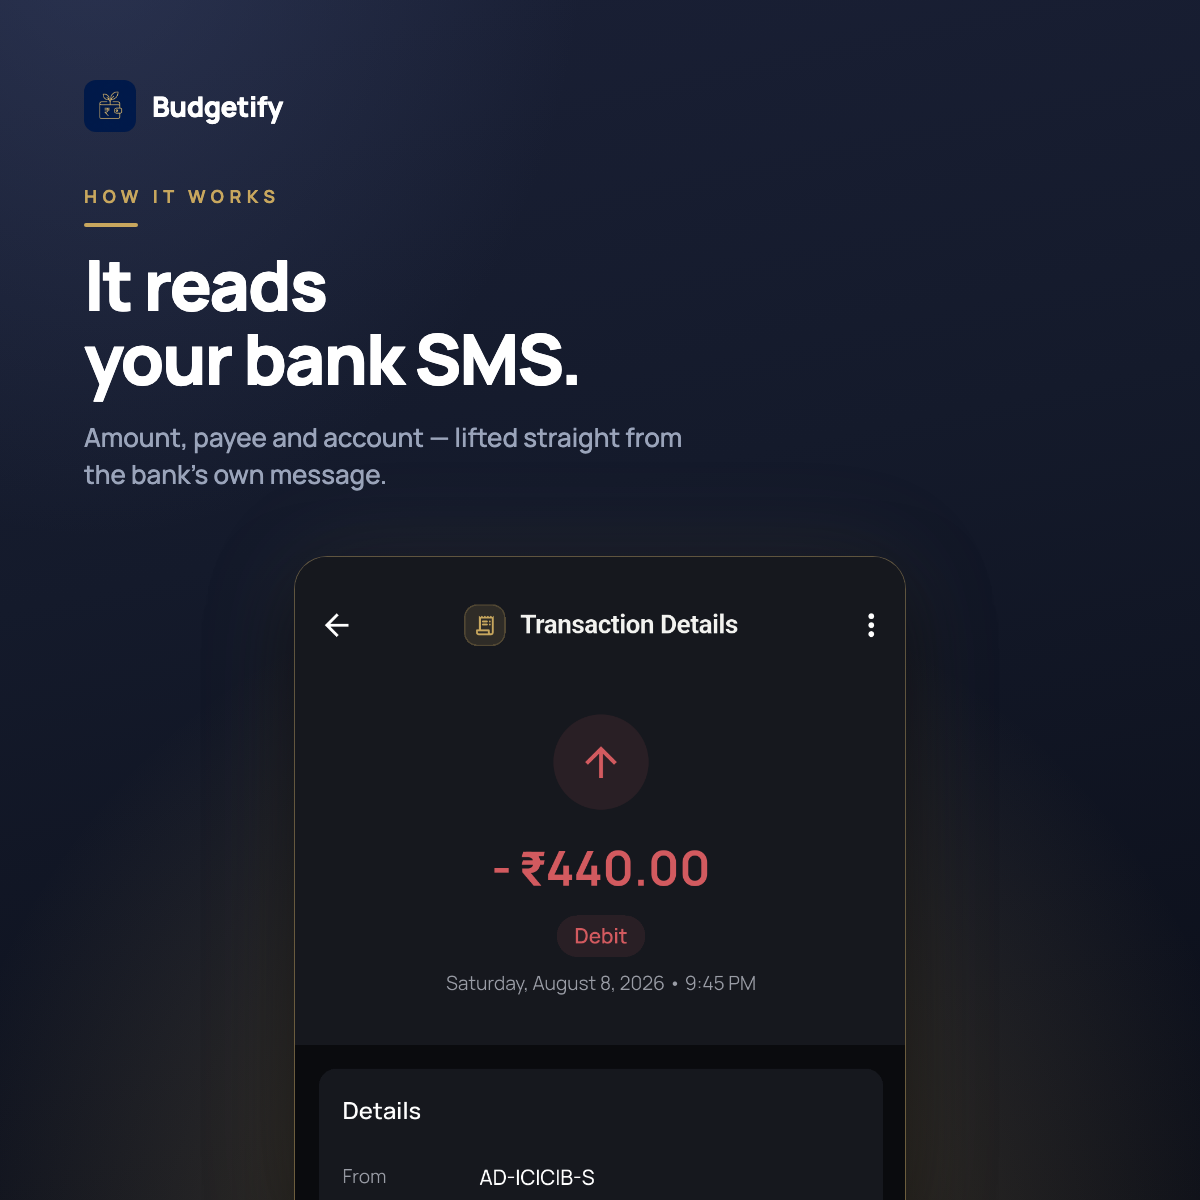
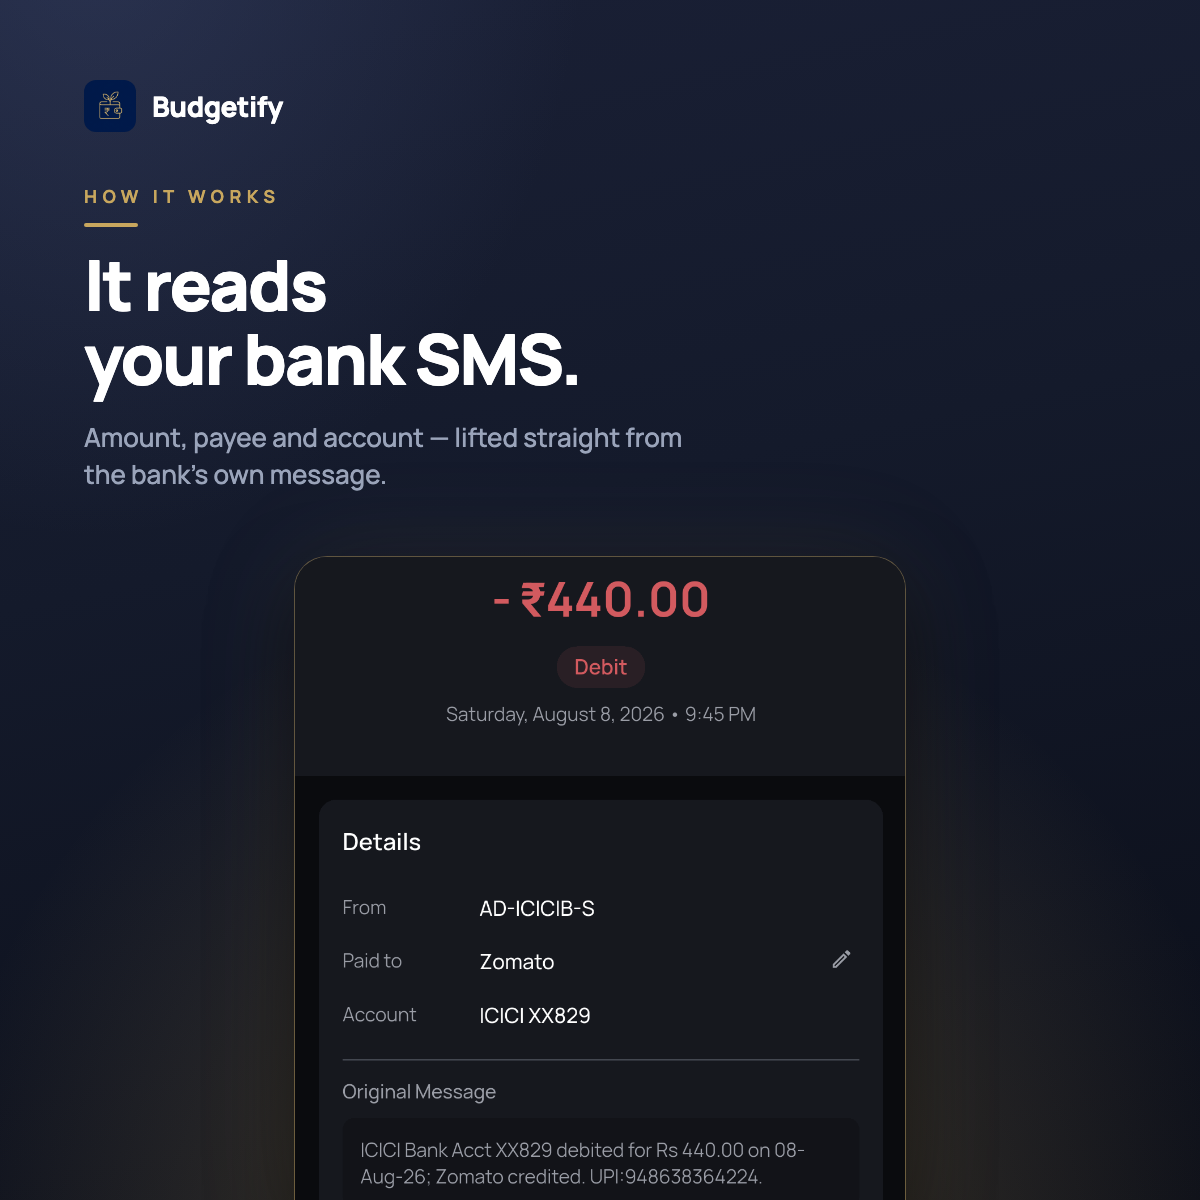
Show the bank SMS in the ad that promises it, and write the Hindi ad group
Three things, all in `marketing/ads content`.

The `02-reads-sms` concept claimed "It reads your bank SMS" over a crop that
stopped just below the amount, so the `Original Message` panel — the raw ICICI
text the parse came from — sat outside the frame in all three ratios. It
borrowed offset 96 from the Play screenshot next door, where the device panel
is tall enough to reach it; the ad's panel is not. At 570 the amount, the payee
it resolved, the account and the message it resolved them from all land in one
shot, in landscape, square and portrait. The square is the binding constraint:
it shows 1136 source pixels, so below ~560 the message's second line falls off
the bottom and above ~600 the amount is cut by the top of the panel.

The campaign targets India in English and Hindi and had English assets only.
`copy.md` now carries a Hindi ad group — five headlines, five descriptions and
alternates — translated from the already-verified English claims and worded to
match the Hindi custom store listing, so the ad and the page agree. A Hinglish
set is there to test later. They are separate ad groups on purpose: an App
campaign mixes assets inside a group, and a shared group would serve a
Devanagari headline over an English description.

The README gains a review section: what changed, and the six things still open
before money moves — starting with the store page, which was last measured at
v1.44.3 with 0 ratings while this repo sits on 1.83.0. It also states plainly
[…]

diff --git a/marketing/ads content/copy.md b/marketing/ads content/copy.md
@@ -4,6 +4,9 @@
 > One block below per field. Limits: headline **30**, description **90**.
 > `python3 validate.py` fails the set if anything runs over.
 
+This file holds **two ad groups' worth of copy**: English first, then Hindi.
+Keep them in separate ad groups — the reason is in the Hindi section below.
+
 An App campaign mixes these itself: any headline can appear beside any
 description, and often beside neither. So every line stands on its own — nothing
 continues a sentence started elsewhere, and nothing refers to "above" or "below".
@@ -85,13 +88,163 @@ Six languages. Works in airplane mode. Nothing to sign up for, ever.
 
 ---
 
+# हिन्दी — the second ad group
+
+The campaign targets India in **English and Hindi**, and until now every asset
+in this folder was English. A Hindi-language user served an English headline is
+a click you paid for and a page they bounce off.
+
+**These do not go in the same ad group as the English lines.** An App campaign
+mixes assets freely inside one ad group, so a shared group would serve a
+Devanagari headline over an English description. Two ad groups, one script each,
+and the asset report then tells you which language pulls.
+
+The lines below are the English five, translated — not new claims. Every one is
+already verified in the table at the bottom of this file, and every one matches
+the wording of the Hindi custom store listing in
+`../playstore/listing/localized.md`, so the ad and the page it lands on say the
+same thing in the same words.
+
+> **Character counts are the conservative reading.** Google counts Devanagari as
+> single-width, but a matra is its own code point, so `बैंक` is four characters,
+> not two. `validate.py` counts the same way. Nothing here is over 29, which
+> leaves room if Google's own counter disagrees by one.
+
+## Hindi headlines — paste one per field
+
+### Hindi headline 1 &nbsp;`25/30`
+
+```
+खर्च ट्रैकर, बिना इंटरनेट
+```
+
+### Hindi headline 2 &nbsp;`24/30`
+
+```
+बैंक SMS खुद पढ़ लेता है
+```
+
+### Hindi headline 3 &nbsp;`24/30`
+
+```
+आपका पैसा, आपके फ़ोन में
+```
+
+### Hindi headline 4 &nbsp;`24/30`
+
+```
+बजट ट्रैकर, बिना टाइपिंग
+```
+
+### Hindi headline 5 &nbsp;`27/30`
+
+```
+एयरप्लेन मोड में भी चलता है
+```
+
+`SMS`, `UPI` and `EMI` stay in Latin script on purpose — that is how they are
+written on every bank message an Indian phone receives, and transliterating them
+would make the ad less recognisable, not more local.
+
+## Hindi descriptions — paste one per field
+
+### Hindi description 1 &nbsp;`79/90`
+
+```
+आपके बैंक और UPI SMS पढ़कर हर लेन-देन अपने आप दर्ज करता है। कुछ टाइप नहीं करना।
+```
+
+### Hindi description 2 &nbsp;`83/90`
+
+```
+रिलीज़ बिल्ड में इंटरनेट परमिशन ही नहीं है। आपका डेटा फ़ोन से बाहर जा ही नहीं सकता।
+```
+
+### Hindi description 3 &nbsp;`77/90`
+
+```
+बजट, कैटेगरी, नेट वर्थ और रिकरिंग बिल — सब आपके फ़ोन पर, सब पूरी तरह ऑफ़लाइन।
+```
+
+### Hindi description 4 &nbsp;`78/90`
+
+```
+न अकाउंट, न क्लाउड, न विज्ञापन, न ट्रैकर। बस यह कि आपका पैसा असल में कहाँ गया।
+```
+
+### Hindi description 5 &nbsp;`72/90`
+
+```
+छह भाषाएँ। एयरप्लेन मोड में भी चलता है। साइन-अप करने की ज़रूरत कभी नहीं।
+```
+
+## Hindi alternate headlines
+
+```
+इंटरनेट परमिशन नहीं
+ऑफ़लाइन खर्च ट्रैकर
+हर रुपया अपने आप दर्ज
+UPI खर्च अपने आप ट्रैक
+बिना टाइप किए खर्च ट्रैक
+न अकाउंट, न क्लाउड, न ऐड
+बैंक SMS से खर्च ट्रैक करें
+आपका डेटा फ़ोन में ही रहता है
+```
+
+## Hindi alternate descriptions
+
+```
+कैटेगरी बजट तय करें और रोज़ की रफ़्तार देखें। न स्प्रेडशीट, न मैनुअल एंट्री।
+सब्सक्रिप्शन और EMI बिल आने से पहले पकड़ें। सब कुछ आपके फ़ोन पर ही रहता है।
+Excel, CSV या PDF में कभी भी एक्सपोर्ट करें। एक टैप में कुछ भी हटाएँ। सब आपका है।
+```
+
+---
+
+# Hinglish — the third ad group, if you want it
+
+Plenty of the audience sets its phone to English, thinks in Hindi, and types in
+Roman script. Those users are targeted by the **English** ad group and served
+English lines. Roman-script Hindi is a third bet, and it is a real one in India —
+but it is a bet, so treat it as a test with its own ad group rather than as
+copy you mix into either of the other two.
+
+Do not run this until English and Hindi have both had a fair run. Three ad
+groups split the same budget three ways, and an App campaign already needs
+volume to learn.
+
+### Hinglish headlines
+
+```
+Bank SMS se kharch track
+Bina type kiye kharch track
+Poori tarah offline tracker
+Har rupee apne aap track
+Na account, na cloud, na ads
+```
+
+### Hinglish descriptions
+
+```
+Aapke bank aur UPI SMS padhkar har transaction khud record karta hai.
+Release build mein internet permission hi nahi hai. Data phone se bahar nahi jata.
+Budget, category, net worth aur recurring bills — sab phone par, sab offline.
+```
+
+---
+
 ## Also uploaded with these
 
 | Asset | Where |
 |-------|-------|
-| 12 images (3 ratios × 4 concepts) | `images/` |
+| 20 images (8 concepts, up to 3 ratios each) | `images/` |
 | 4 videos (15s + 30s, 9:16 + 1:1) | `video/` — upload to YouTube as **unlisted** first |
 | Feature graphic | `../playstore/feature-graphic.png` — Play pulls this into ads automatically |
+
+The images carry English overlay text, so today they belong to the English ad
+group. The Hindi group can run on them anyway — Google draws its own headline
+over the creative and `05-product` has no words on it at all — but a Hindi set
+is the obvious next asset to build.
 
 ---
 

diff --git a/marketing/ads content/README.md b/marketing/ads content/README.md
@@ -1,15 +1,15 @@
 # Budgetify — marketing campaign
 
-Assets and plan for the Google Ads App campaign, built 2026-08-16. Nothing here
-is live: the campaign is staged, not started.
+Assets and plan for the Google Ads App campaign, built 2026-08-16 and reviewed
+2026-09-03. Nothing here is live: the campaign is staged, not started.
 
 ```
 ads content/
-  copy.md                 15 headlines, 11 descriptions, validated
+  copy.md                 English + Hindi + Hinglish copy, validated
   validate.py             fails if any line is over Google's limit
   build-ad-images.mjs     composes the image assets from real app captures
   build-ad-videos.sh      cuts the 58s launch film to ad lengths
-  images/                 12 PNGs — 4 concepts x 3 ratios
+  images/                 20 PNGs — 8 concepts, up to 3 ratios each
   video/                  4 MP4s — 15s and 30s, 9:16 and 1:1
 ```
 
@@ -20,6 +20,72 @@ The **feature graphic** lives next door at `../playstore/feature-graphic.png`
 an App campaign pulls it into ad placements automatically — which is why the ad
 preview showed a banner before a single image asset had been uploaded. It counts
 as campaign creative whether or not you upload anything here.
+
+---
+
+## Reviewed 2026-09-03
+
+**Changed in this pass**
+
+- **`02-reads-sms` now shows a bank SMS.** It did not. The concept whose entire
+  claim is "it reads your bank SMS" was cropped to the amount and the direction
+  arrow, and the `Original Message` panel — the raw ICICI text the parse came
+  from — sat below the frame in all three ratios. The crop moved from 96 to 570,
+  and the ad now carries the amount, the payee it resolved (`Zomato`), the
+  account, and the message it resolved them from, in one shot. That panel is the
+  product's whole argument; it should not have been the part left out.
+- **A Hindi ad group's copy exists.** The campaign targeted India in English and
+  Hindi and had English assets only. `copy.md` now carries five Hindi headlines,
+  five Hindi descriptions and alternates, plus a Hinglish set to test later.
+- Stale counts in this file and in `copy.md` (both still said 12 images).
+
+**Still open, in the order it costs you money**
+
+1. **The store page, again.** The listing was last measured on 2026-08-08 at
+   **v1.44.3, 5+ installs, 0 ratings** (`../playstore/listing/README.md`); this
+   repo is on 1.83.0. Every rupee of ad spend is multiplied by that page's
+   conversion rate, and paid traffic lands on whatever is live, not on what is
+   built. Confirm what is actually on the store before the first impression.
+2. **The video end card contradicts `copy.md`.** All four cuts close on **"Get it
+   free on Google Play"**, and `copy.md` says in as many words not to claim
+   *free*, because Plus is a real purchase. Both positions are defensible — the
+   download *is* free, and Play draws its own "Free" badge — but they cannot
+   both be the rule. Either relax the rule for the standard Play phrasing, or
+   re-render the end card. Do not ship them disagreeing.
+3. **`07-your-language` shows an untranslated string.** The Hindi capture behind
+   "Budgetify speaks your language" renders `₹66,830 saved of ₹95,000 income` in
+   English. `lib/widgets/savings_summary.dart` reaches for `context.l10n`
+   everywhere else but hardcodes two lines — that one and `Overspent by …`. It
+   is a small product bug, and a bad one to buy traffic for, since it is on
+   screen in the ad that promises localisation.
+4. **The demo persona is not the audience.** The seeded screens show ₹95,000
+   monthly income and a 70% savings rate. For a campaign aimed at people in
+   general, that is a top-percentile household, and the numbers quietly say "not
+   for you". Reseeding is not free — `../playstore/captures/` feeds the Play
+   screenshots too, so both sets get re-shot together — but it is the highest-
+   leverage creative change left.
+5. **No 16:9 video.** The four cuts are 9:16 and 1:1, so the campaign never
+   serves YouTube in-stream. A real 16:9 means re-rendering from
+   `marketing/budgetify-launch-film.html` at that canvas, not letterboxing.
+6. **The film source is not in git.** `budgetify-launch-film.html`,
+   `render-film.mjs` and `rebuild-from-transcript.py` are untracked and exist on
+   one machine. The `.mp4` master is ignored by design; the sources should not
+   be. Losing them means the ad cuts can never be re-made.
+
+**What an install is worth, honestly**
+
+Plus is ₹49/month, ₹499/year, ₹1499 lifetime, and every new install starts a
+**90-day trial** (`EntitlementService.trialDuration`). After Play's 15% cut, a
+yearly subscription nets about ₹424 and a lifetime about ₹1274. So at a ₹25
+target CPI, break-even is roughly **1 in 17 installs buying a year**, or 1 in 51
+buying lifetime — and the first rupee cannot arrive until the trial ends three
+months after the click. With no in-app telemetry you will not be able to measure
+any of it.
+
+That is not an argument against advertising. It is an argument for treating the
+budget as **the price of distribution and reviews**, deciding the number up
+front, and judging the campaign on Play Console's retained-installer curve —
+because nothing else about it is measurable this year.
 
 ---
 
@@ -105,9 +171,10 @@ here; you have no fraud signal and no quality signal inside the ads account.
 | Platform | Android | Play-only product |
 | Location | India | The parser is built for Indian bank and UPI SMS |
 | Language | English + Hindi | App ships 6 languages; start with the two biggest |
+| Ad groups | One per script | An App campaign mixes assets inside a group, so English and Hindi lines must not share one |
 | Bidding | Target CPI, "All users" | Not "users likely to perform an in-app action" — that needs events |
 | Budget | See below | |
-| Assets | 5 headlines, 5 descriptions, 12 images, 4 videos | All in this folder |
+| Assets | 5 headlines + 5 descriptions per ad group, 20 images, 4 videos | All in this folder |
 
 ### Budget
 
